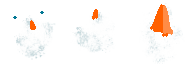
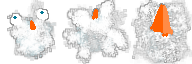
light knockback effect for RotatingSpawner + improve death

diff --git a/client/World.js b/client/World.js
@@ -32,13 +32,14 @@ var playerExplosionTextures = [
   tile64(playerExplosionTexture, 2, 0)
 ];
 
-function World (particles, explosions) {
+function World (particles, explosions, explosionsPlayer) {
   PIXI.DisplayObjectContainer.call(this);
   this._focusY = 0;
   this.shaking = 0;
 
   this.particles = particles;
   this.explosions = explosions;
+  this.explosionsPlayer = explosionsPlayer;
 }
 
 World.prototype = Object.create(PIXI.DisplayObjectContainer.prototype);
@@ -55,14 +56,13 @@ World.prototype.update = function (t, dt) {
   }
 };
 World.prototype.playerDied = function (player, isMyself) {
+  var explosion = new ParticleExplosion(player, playerExplosionTextures, 400);
+  this.explosionsPlayer.addChild(explosion);
+  if (isMyself) vibrate(400);
   setTimeout(function () {
     if (isMyself)
       audio.play("lose");
-  }, 800);
-  if (isMyself)
-    vibrate(400);
-  var explosion = new ParticleExplosion(player, playerExplosionTextures, 300);
-  this.explosions.addChild(explosion);
+  }, 1000);
 };
 World.prototype.snowballExplode = function (snowball) {
   audio.play("snowballHit", snowball, 0.6);

diff --git a/client/Game.js b/client/Game.js
@@ -31,6 +31,7 @@ function Game (seed, controls, playername) {
   var cars = new Container();
   var particles = new Container();
   var explosions = new Container();
+  var explosionsPlayer = new Container();
   var spawners = new Container();
   var map = new GameMap(seed, cars, particles, spawners);
   var deadCarrots = new Container();
@@ -45,10 +46,10 @@ function Game (seed, controls, playername) {
   var ui = new UI(this);
   this.ui = ui;
 
-  var world = new World(particles, explosions);
+  var world = new World(particles, explosions, explosionsPlayer);
   world.addChild(map);
-  world.addChild(deadCarrots);
   world.addChild(footprints);
+  world.addChild(deadCarrots);
   world.addChild(players);
   world.addChild(names);
   world.addChild(player);
@@ -56,6 +57,7 @@ function Game (seed, controls, playername) {
   world.addChild(particles);
   world.addChild(spawners);
   world.addChild(explosions);
+  world.addChild(explosionsPlayer);
 
   this.addChild(world);
   this.addChild(ui);

diff --git a/client/RotatingSpawner.js b/client/RotatingSpawner.js
@@ -1,4 +1,4 @@
-
+var smoothstep = require("smoothstep");
 var PIXI = require("pixi.js");
 
 function RotatingSpawner (spawner, radius, baseTexture, weaponTexture) {
@@ -34,7 +34,9 @@ RotatingSpawner.prototype.update = function (t) {
     var head = heads[i];
     var sprite = this.heads.children[i];
     sprite.rotation = head.angle + Math.PI/2;
-    sprite.pivot.y = (head.trigger ? 1 : 0.8) * this.radius;
+    sprite.pivot.y = this.radius * ( !head.trigger ? 0.8 :
+      1 - 0.1 * smoothstep(0.5, 0.0, head.p)
+    );
   }
 };
 

diff --git a/client/Player.js b/client/Player.js
@@ -154,6 +154,8 @@ Player.prototype.onCarHit = function (car) {
   this.life -= 100;
   var knock = 8000 / this.width;
   this.knock(knock * car.vel[0], 0);
+  if (this.footprints)
+    this.footprints.walk(this.position, this.width);
 };
 Player.prototype.getScore = function () {
  return {
